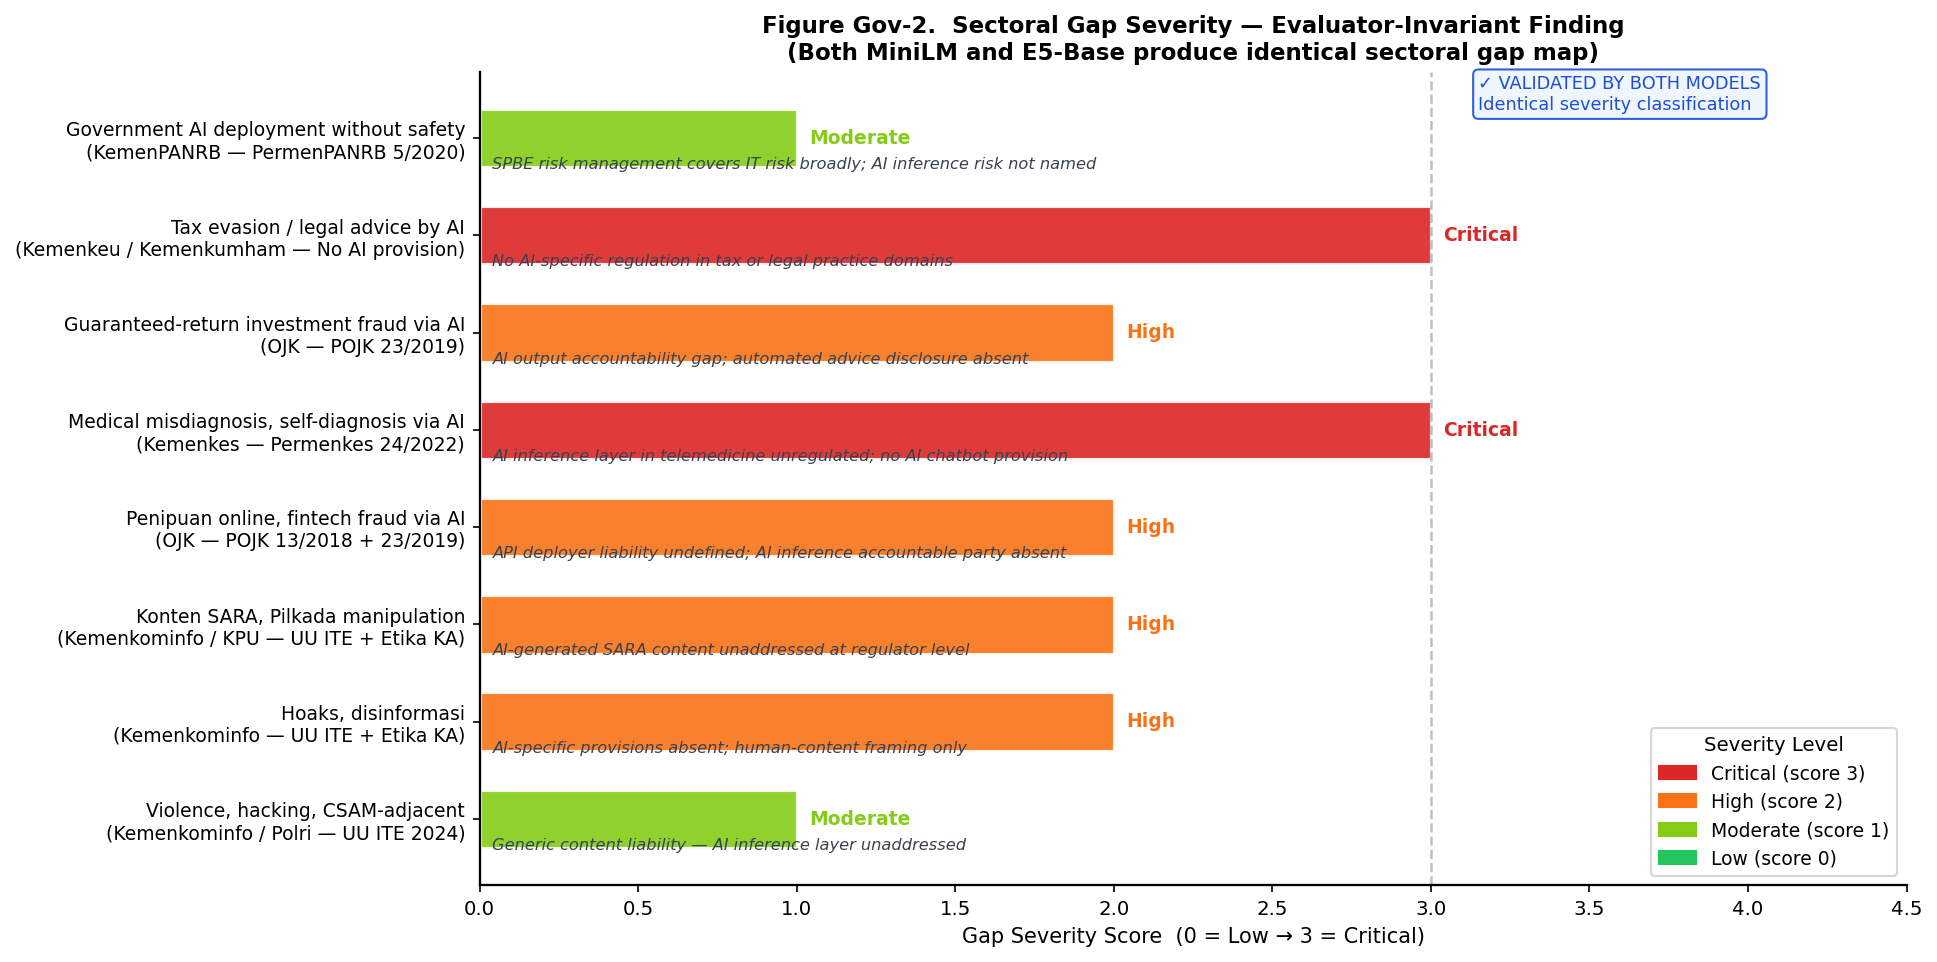
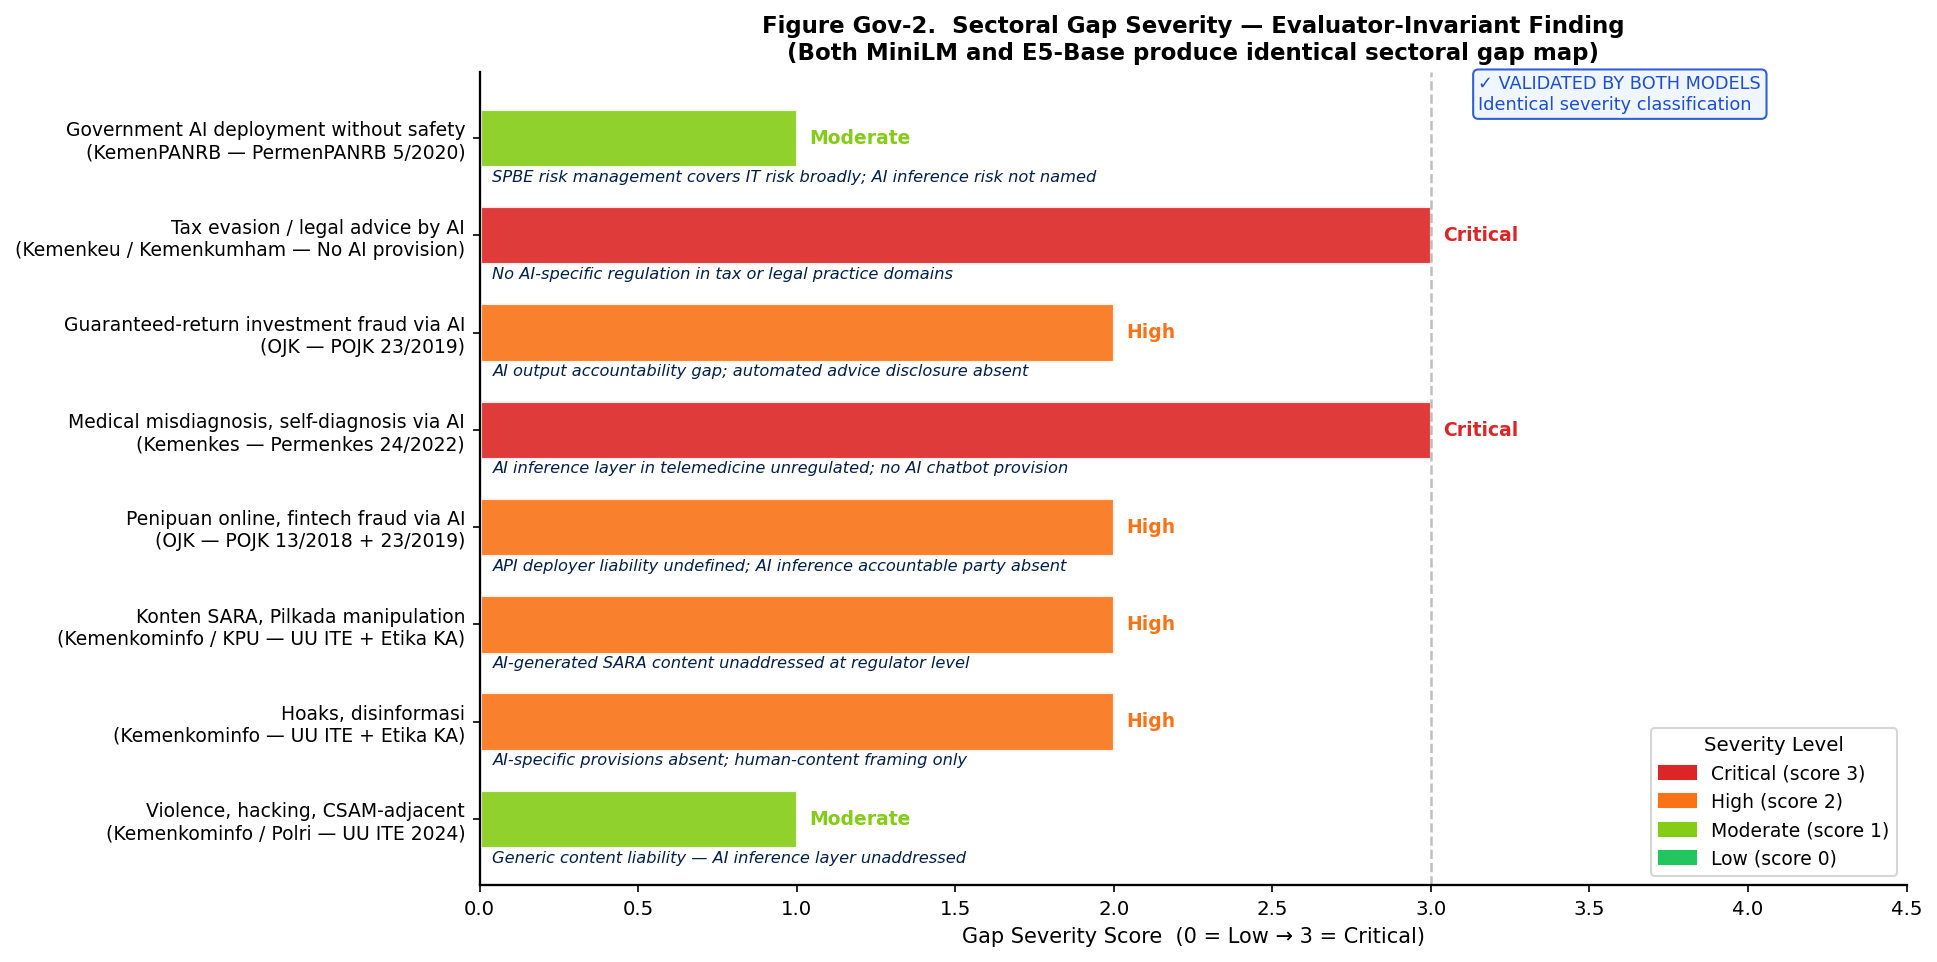
Refactor code structure for improved readability and maintainability

diff --git a/src/generate_charts_gov.py b/src/generate_charts_gov.py
@@ -132,36 +132,39 @@ def fig_gov01_model_comparison():
     # ── Left: Model specs table ──
     ax.axis("off")
     attr = ["Model ID", "Developer", "Parameters", "Architecture",
-            "Max seq length", "Cosine range", "Coverage threshold",
-            "Observed range", "Best instrument", "Corpus peak score"]
-    mini = ["paraphrase-multilingual-MiniLM-L12-v2", "sentence-transformers",
-            "117 M", "12-layer transformer (distilled)", "128 tokens",
+            "Max seq len", "Cosine range", "Threshold",
+            "Observed range", "Best instrument", "Peak score"]
+    mini = ["paraphrase-multilingual-\nMiniLM-L12-v2", "sentence-transformers",
+            "117 M", "12-layer transformer\n(knowledge-distilled)", "128 tokens",
             "0.0 – 1.0", "0.35", "0.058 – 0.701",
-            "POJK 13/2018 (Fintech AI Risk)", "0.701"]
-    e5   = ["intfloat/multilingual-e5-base", "Microsoft / NTNU",
-            "278 M", "12-layer transformer (contrastive)", "512 tokens",
+            "POJK 13/2018\n(Fintech AI Risk)", "0.701"]
+    e5   = ["intfloat/\nmultilingual-e5-base", "Microsoft / NTNU",
+            "278 M", "12-layer transformer\n(contrastive trained)", "512 tokens",
             "0.45 – 0.95", "0.82", "0.787 – 0.891",
-            "PermenPANRB 5/2020 (Gov AI Risk)", "0.891"]
+            "PermenPANRB 5/2020\n(Gov AI Risk Mgmt)", "0.891"]
 
     col_labels = ["Attribute", "MiniLM-L12-v2", "E5-Base"]
     table_data = [[a, m, e] for a, m, e in zip(attr, mini, e5)]
-    # bbox=[x0, y0, width, height] in axes-fraction coordinates
     t = ax.table(
         cellText=table_data, colLabels=col_labels,
-        cellLoc="center", bbox=[0.0, 0.06, 1.0, 0.87],
+        cellLoc="center", bbox=[0.01, 0.03, 0.98, 0.91],
     )
     t.auto_set_font_size(False)
-    t.set_fontsize(8.5)
-    t.auto_set_column_width([0, 1, 2])
+    t.set_fontsize(8)
+    # Manually assign column widths (fractions must sum to 1.0)
+    # Col-0 = Attribute (shorter labels) ~21%, Col-1 = MiniLM ~40%, Col-2 = E5 ~39%
+    col_w = {0: 0.21, 1: 0.40, 2: 0.39}
     for (r, c), cell in t.get_celld().items():
         cell.set_linewidth(0.6)
+        cell.set_width(col_w[c])
+        cell.PAD = 0.06          # internal padding fraction
         if r == 0:
             cell.set_facecolor("#1e3a5f")
             cell.set_text_props(color="white", fontweight="bold")
-        elif r % 2 == 1:          # odd data rows — slightly darker
+        elif r % 2 == 1:
             bg = {0: "#F3F4F6", 1: "#DBEAFE", 2: "#DCFCE7"}
             cell.set_facecolor(bg.get(c, "#F3F4F6"))
-        else:                      # even data rows — lighter
+        else:
             bg = {0: "#FFFFFF", 1: "#EFF6FF", 2: "#F0FDF4"}
             cell.set_facecolor(bg.get(c, "#FFFFFF"))
     ax.set_title("Model Architecture Specifications",
@@ -217,10 +220,10 @@ def fig_gov01_model_comparison():
     ax3.bar(x - w / 2, MINI_GAPS, w, color=C_MINI, alpha=0.85, label="MiniLM (thr 0.35)")
     ax3.bar(x + w / 2, E5_GAPS,   w, color=C_E5,   alpha=0.85, label="E5-Base (thr 0.82)")
     for i, (m, e) in enumerate(zip(MINI_GAPS, E5_GAPS)):
-        ax3.text(i - w / 2, m + 0.18, str(int(m)),
-                 ha="center", fontsize=9, color=C_MINI, fontweight="bold")
-        ax3.text(i + w / 2, e + 0.18, str(int(e)),
-                 ha="center", fontsize=9, color=C_E5,   fontweight="bold")
+        ax3.text(i - w / 3, m + 0.125, str(int(m)),
+                 ha="center", fontsize=8, color=C_MINI, fontweight="bold")
+        ax3.text(i + w / 3, e + 0.125, str(int(e)),
+                 ha="center", fontsize=8, color=C_E5,   fontweight="bold")
     ax3.set_xticks(x)
     ax3.set_xticklabels(
         [d.replace("\n", " ") for d in DOCS_SHORT],
@@ -230,7 +233,7 @@ def fig_gov01_model_comparison():
     ax3.set_title("Coverage Gap Count per Instrument\n(16 API-governance concepts)",
                   fontsize=10, fontweight="bold")
     ax3.legend(fontsize=8.5, loc="upper right", framealpha=0.88, edgecolor="#CBD5E1")
-    ax3.set_ylim(0, 13.5)
+    ax3.set_ylim(0, 18)
     ax3.set_xlim(-0.65, 7.85)
     ax3.axhline(8, ls=":", color="gray", lw=1.2, alpha=0.55)
     # "50%" label — safely inside the right edge
@@ -282,7 +285,7 @@ def fig_gov02_gap_severity():
     for i, (bar, sev, gap) in enumerate(zip(bars, severity, gaps)):
         ax.text(bar.get_width() + 0.04, i, sev, va="center", fontsize=9, fontweight="bold",
                 color=colors[scores[i]])
-        ax.text(0.04, i - 0.27, gap, va="center", fontsize=7.8, color="#374151",
+        ax.text(0.04, i - 0.4, gap, va="center", fontsize=7.8, color="#001F4B",
                 fontstyle="italic")
 
     ax.set_yticks(y)
@@ -519,7 +522,7 @@ def fig_gov06_max_coverage():
         fontsize=10.5, fontweight="bold"
     )
     ax.legend(fontsize=8.5, loc="lower right")
-    ax.set_xlim(0, 1.0)
+    ax.set_xlim(0, 1.4)
     plt.tight_layout()
     plt.savefig(os.path.join(OUT_DIR, "fig_gov06_max_coverage.png"), bbox_inches="tight")
     plt.close()
@@ -649,7 +652,7 @@ def fig_gov08_instrument_ranking():
     ax2.set_ylabel("% API Concepts Below Threshold", fontsize=9)
     ax2.set_title("Coverage Gap Percentage\n(16 API concepts)", fontsize=10, fontweight="bold")
     ax2.legend(fontsize=8)
-    ax2.set_ylim(0, 75)
+    ax2.set_ylim(0, 100)
 
     # ── Instrument ranking radar (simplified: parallel coordinates) ──
     ax3 = axes[2]
